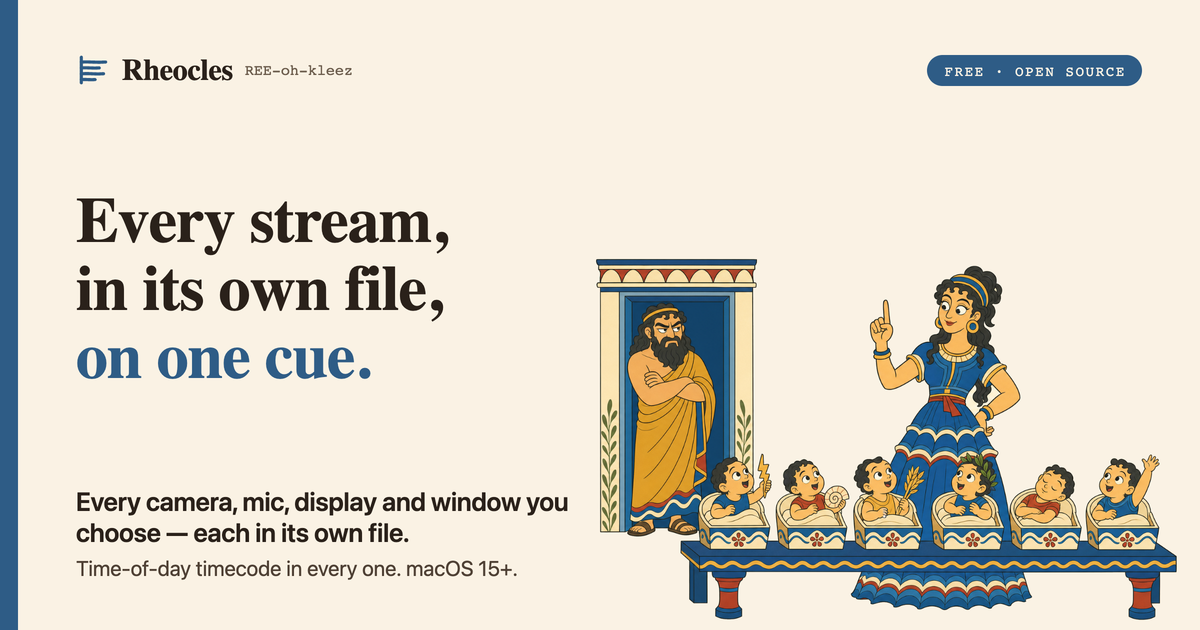
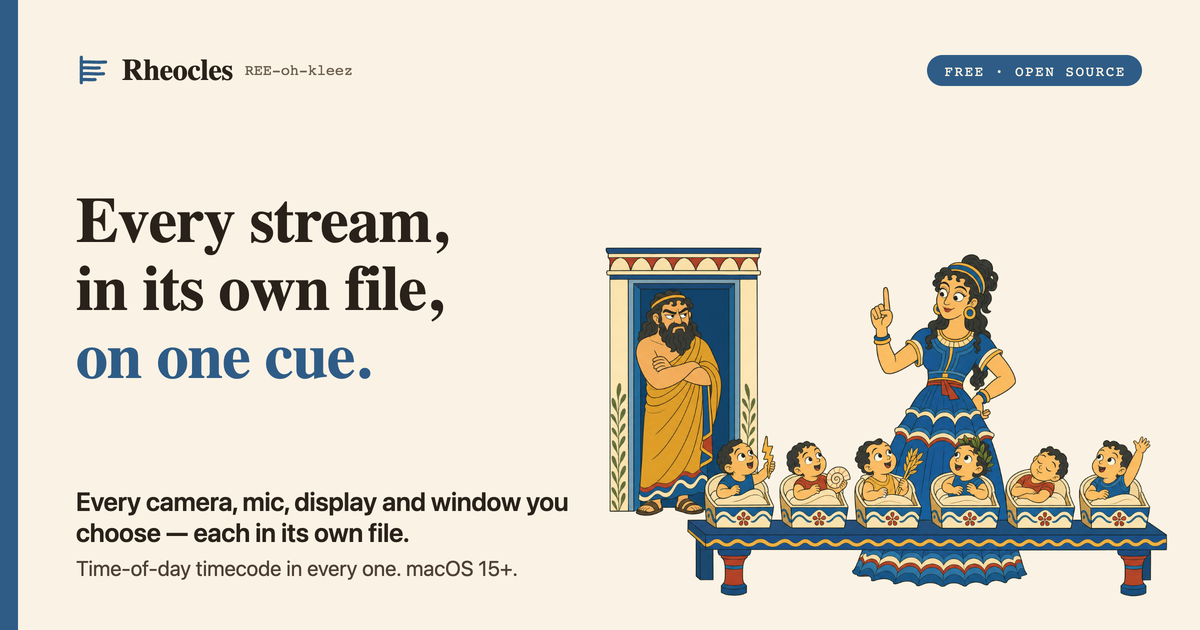
site: the landing card shows the whole hero sticker
580 wide, 24px in from the right and bottom edges plus the sticker's own
margin — the bench end, the sixth cradle and the legs are all inside the
card now, and the plate still clears the text column.

Claude-Session: https://claude.ai/code/session_01J6y63zHdtDzcCRqyb3xvYm

Changed region(s): [[0.4933, 0.3921, 0.9867, 0.9952]]

diff --git a/site/og.html b/site/og.html
@@ -50,9 +50,10 @@
   .foot { max-width:var(--col); }
   .cat { font-size:26px; font-weight:600; color:var(--ink); letter-spacing:-.012em; line-height:1.2; }
   .meta { color:var(--ink-soft); font-size:21px; margin-top:8px; }
-  /* 600 wide on a 1502×954 sticker is 381 tall; bottom flush, right edge in
-     from the card so the last cradle keeps its margin. */
-  .art { position:absolute; right:14px; bottom:0; width:600px; z-index:1; display:block; }
+  /* The whole sticker inside the card — nothing cropped, the bench end and
+     the legs included — with 24px to the right and bottom edges plus the
+     sticker's own margin. 580 wide on a 1502×954 sticker is 368 tall. */
+  .art { position:absolute; right:24px; bottom:24px; width:580px; z-index:1; display:block; }
 </style></head>
 <body>
   <div class="bar"></div>
